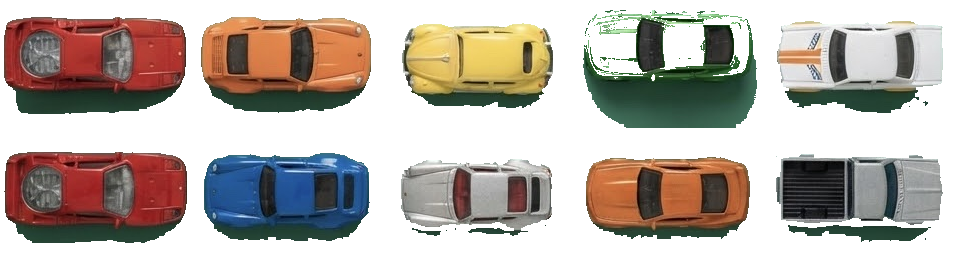
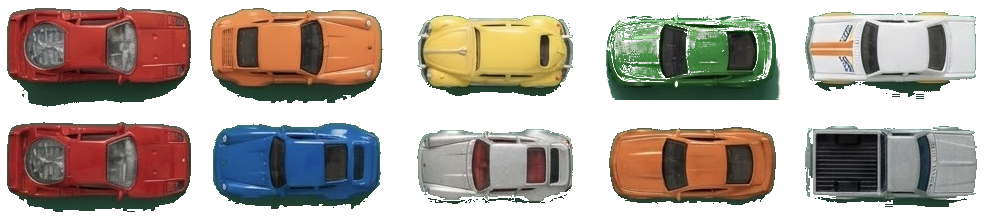
Fix Yeşil Coupe cutout and ship Arabalarım page v13.

diff --git a/index.html b/index.html
@@ -435,7 +435,7 @@
     <section class="panel" id="menu">
       <div class="card">
         <h1>Halka Arabaları</h1>
-        <p id="build-tag" style="margin:0 0 10px;font-size:13px;font-weight:800;color:#f0a202;">Sürüm 12 · Tam araba sayfası</p>
+        <p id="build-tag" style="margin:0 0 10px;font-size:13px;font-weight:800;color:#f0a202;">Sürüm 13 · Tam araba sayfası</p>
         <p style="margin:0 0 8px;font-size:14px;">Çek-bırak, halkaya dur, botu yen. Oyunda Menü ile geri dön.</p>
         <p id="menu-best"></p>
         <button id="open-collection" class="garage-entry" type="button">
@@ -546,7 +546,7 @@
     let CAR_COUNT = PLAYER_COLORS.length;
     function carFileUrl(i) {
       const file = (ATLAS && ATLAS.cars[i] && ATLAS.cars[i].file) ? ATLAS.cars[i].file : ("car_" + String(i).padStart(2, "0") + ".png");
-      return "cars/" + file + "?v=12";
+      return "cars/" + file + "?v=13";
     }
     function punchCrop(img) {
       const w = img.naturalWidth;
@@ -593,12 +593,12 @@
         carSheets[i] = sheet;
         if (i === 0) carSheets[2] = sheet;
       };
-      im.src = src + "?v=12";
+      im.src = src + "?v=13";
     });
     function loadCarImages(meta) {
       carImages = meta.cars.map((c, i) => {
         const im = new Image();
-        im.src = "cars/" + (c.file || ("car_" + String(i).padStart(2, "0") + ".png")) + "?v=12";
+        im.src = "cars/" + (c.file || ("car_" + String(i).padStart(2, "0") + ".png")) + "?v=13";
         return im;
       });
     }
@@ -615,13 +615,13 @@
       refreshMenuBest();
       if (state === "collection") renderCollection();
     }
-    fetch("cars/atlas.json?v=12")
+    fetch("cars/atlas.json?v=13")
       .then((r) => r.json())
       .then((meta) => new Promise((resolve, reject) => {
         const img = new Image();
         img.onload = () => resolve({ meta, img });
         img.onerror = reject;
-        img.src = "cars/atlas.png?v=12";
+        img.src = "cars/atlas.png?v=13";
       }))
       .then(({ meta, img }) => applyAtlas(meta, img))
       .catch(() => { /* atlas yoksa renk yedekleri kalır */ });
